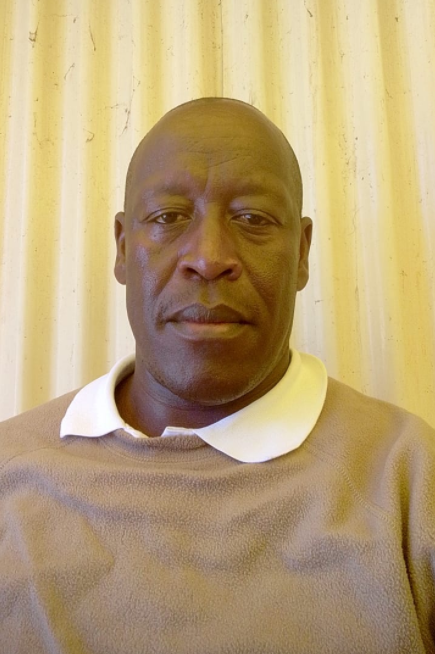
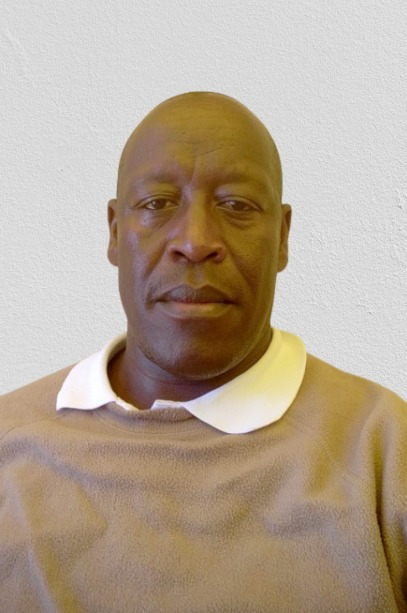
added correct image tags

diff --git a/frontend/src/components/recovery/ValuerPanel.jsx b/frontend/src/components/recovery/ValuerPanel.jsx
@@ -1,13 +1,13 @@
 // components/recovery/ValuerPanel.jsx
 import { useState, useEffect, useCallback, useRef } from 'react';
 import { useAuth } from '../../context/AuthContext';
-import { recoveryAPI } from '../../services/api';
+import { recoveryAPI, adminAPI } from '../../services/api';  // <-- added adminAPI
 import { showToast } from '../common/Toast';
 import Modal from '../common/Modal';
 import ConfirmationDialog from '../common/ConfirmationDialog';
-import { generateValuerReportFromData } from '../admin/ReceiptPDF';
+import { generateValuerReportFromData, generateLoanInvoicePDF } from '../admin/ReceiptPDF';  // <-- added generateLoanInvoicePDF
 
-const ValuerPanel = ({ editable = true }) => {   // <-- NEW prop
+const ValuerPanel = ({ editable = true }) => {
   const { user } = useAuth();
 
   const [flaggedClients, setFlaggedClients] = useState([]);
@@ -86,7 +86,7 @@ const ValuerPanel = ({ editable = true }) => {   // <-- NEW prop
 
   // Auto‑save valuer notes – only when editable
   const autoSaveNotes = (loanId, value) => {
-    if (!editable) return;   // <-- no saving when read‑only
+    if (!editable) return;
 
     if (noteTimeout.current[loanId]) clearTimeout(noteTimeout.current[loanId]);
     noteTimeout.current[loanId] = setTimeout(async () => {
@@ -104,7 +104,7 @@ const ValuerPanel = ({ editable = true }) => {   // <-- NEW prop
   };
 
   const handleResolveClick = (loanId) => {
-    if (!editable) return;   // <-- no resolve in read‑only mode
+    if (!editable) return;
     setResolveLoanId(loanId);
     setShowResolveModal(true);
   };
@@ -128,6 +128,26 @@ const ValuerPanel = ({ editable = true }) => {   // <-- NEW prop
     const reportDate = new Date().toLocaleDateString('en-GB');
     await generateValuerReportFromData(filteredClients, reportDate, user?.username || 'Valuer', download);
   };
+
+  // ---------- NEW: Download Invoice (exactly as in RecoveryModule) ----------
+  const handleDownloadInvoice = async (client) => {
+    try {
+      // 1. Fetch the most current loan data (including period_interest_prepaid)
+      const loanResponse = await adminAPI.getLoan(client.loan_id);
+      const freshLoan = loanResponse.data;
+
+      // 2. Get transactions for the invoice
+      const txnResponse = await recoveryAPI.getLoanTransactions(client.loan_id);
+
+      // 3. Generate invoice with fresh data
+      await generateLoanInvoicePDF(freshLoan, txnResponse.data || []);
+      showToast.success('Invoice downloaded');
+    } catch (error) {
+      console.error('Invoice error:', error);
+      showToast.error('Failed to generate invoice');
+    }
+  };
+  // -----------------------------------------------------------------
 
   // Branch filter logic
   const filterByBranch = (clients) => {
@@ -235,7 +255,7 @@ const ValuerPanel = ({ editable = true }) => {   // <-- NEW prop
                       <i className="fas fa-comment"></i> Comments
                     </button>
                     <button
-                      className="btn btn-sm btn-info me-1"
+                      className="btn btn-sm btn-secondary me-1"
                       onClick={() => {
                         setSelectedLoanDetails(client);
                         setShowLoanDetailsModal(true);
@@ -244,7 +264,15 @@ const ValuerPanel = ({ editable = true }) => {   // <-- NEW prop
                     >
                       <i className="fas fa-eye"></i> View Details
                     </button>
-                    {editable && (   // <-- only show Resolve button if editable
+                    {/* NEW: Download Invoice button */}
+                    <button
+                      className="btn btn-sm btn-info me-1"
+                      onClick={() => handleDownloadInvoice(client)}
+                      title="Download Invoice"
+                    >
+                      <i className="fas fa-file-invoice"></i>
+                    </button>
+                    {editable && (
                       <button
                         className="btn btn-sm btn-warning"
                         onClick={() => handleResolveClick(client.loan_id)}
@@ -268,7 +296,7 @@ const ValuerPanel = ({ editable = true }) => {   // <-- NEW prop
         </table>
       </div>
 
-      {/* ---------- Comments Modal ---------- */}
+      {/* Comments Modal (unchanged) */}
       <Modal
         isOpen={showCommentsModal}
         onClose={() => setShowCommentsModal(false)}
@@ -283,7 +311,6 @@ const ValuerPanel = ({ editable = true }) => {   // <-- NEW prop
               <p><strong>Loan ID:</strong> {selectedClient.loan_id}</p>
             </div>
 
-            {/* Valuer Notes – show only when editable */}
             {editable && (
               <div className="mb-3">
                 <label className="form-label fw-bold">Valuer Recovery Notes (auto‑saved)</label>
@@ -344,7 +371,7 @@ const ValuerPanel = ({ editable = true }) => {   // <-- NEW prop
         )}
       </Modal>
 
-      {/* ---------- Loan Details Modal ---------- */}
+      {/* Loan Details Modal (unchanged) */}
       {showLoanDetailsModal && selectedLoanDetails && (
         <Modal
           isOpen={showLoanDetailsModal}
@@ -378,7 +405,6 @@ const ValuerPanel = ({ editable = true }) => {   // <-- NEW prop
             </div>
           </div>
 
-          {/* Livestock Photos */}
           {selectedLoanDetails.photos && selectedLoanDetails.photos.length > 0 && (
             <div className="mt-3">
               <h6>Livestock Photos</h6>
@@ -407,7 +433,7 @@ const ValuerPanel = ({ editable = true }) => {   // <-- NEW prop
         </Modal>
       )}
 
-      {/* ---------- Image Zoom Modal ---------- */}
+      {/* Image Zoom Modal (unchanged) */}
       {showImageModal && selectedImage && (
         <Modal
           isOpen={showImageModal}
@@ -427,7 +453,7 @@ const ValuerPanel = ({ editable = true }) => {   // <-- NEW prop
         </Modal>
       )}
 
-      {/* ---------- Resolve Confirmation Modal (only if editable) ---------- */}
+      {/* Resolve Confirmation Modal (unchanged) */}
       {editable && (
         <ConfirmationDialog
           isOpen={showResolveModal}

diff --git a/frontend/src/pages/StaffProfile.jsx b/frontend/src/pages/StaffProfile.jsx
@@ -16,6 +16,8 @@ const staffImages = {
   'NAG-EMP-0005': '/ann-ndura.png',           // Ann Ndura
   'NAG-EMP-0006': '/lucy-nyambura.png',       // Lucy Nyambura
   'NAG-EMP-0007': '/kalama-valuer-emarti.jpeg', // Robert Kalama
+  'NAG-EMP-0008': '/Terry.png',   // Terry Kintei
+  'NAG-EMP-0009': '/Joshua.png',  // Joshua Partapipi
 };
 
 // Custom "Joined" display per staff number